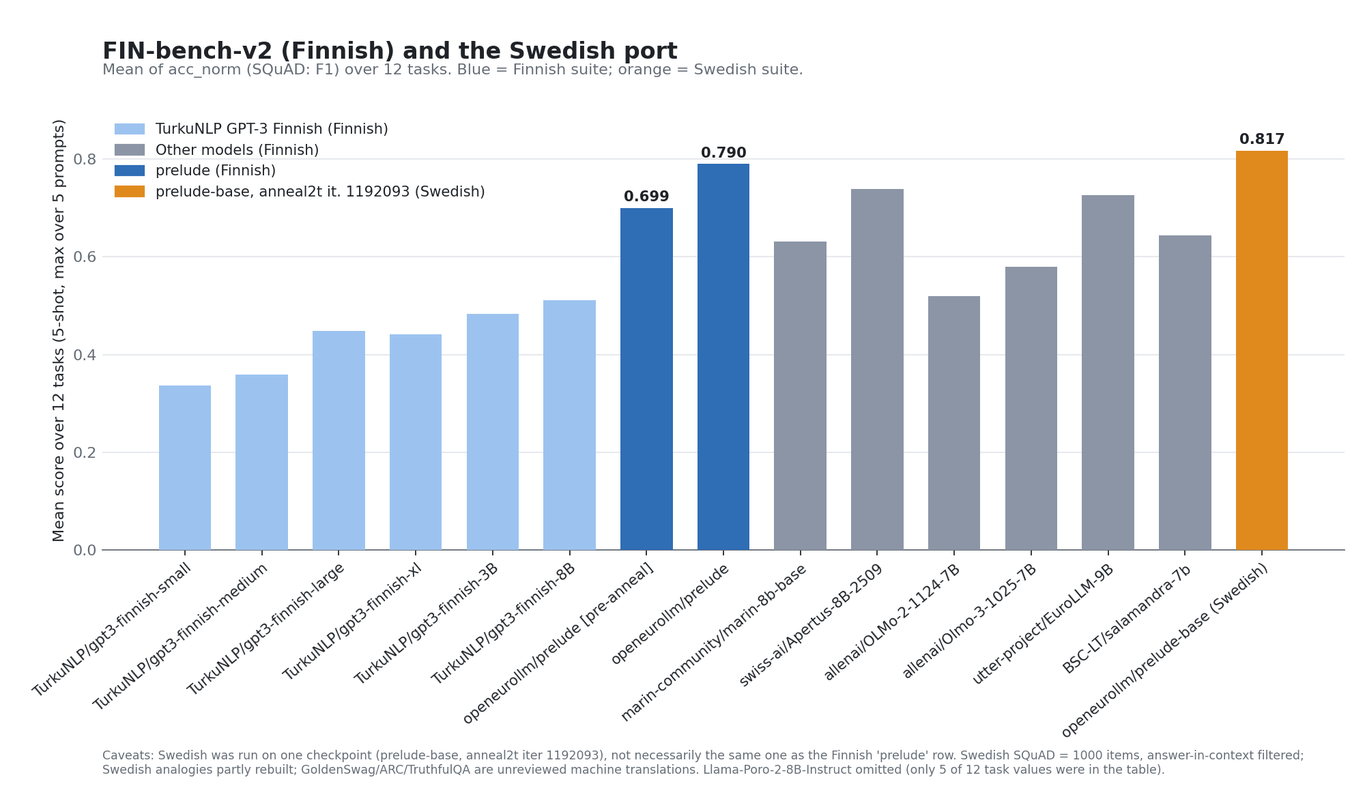
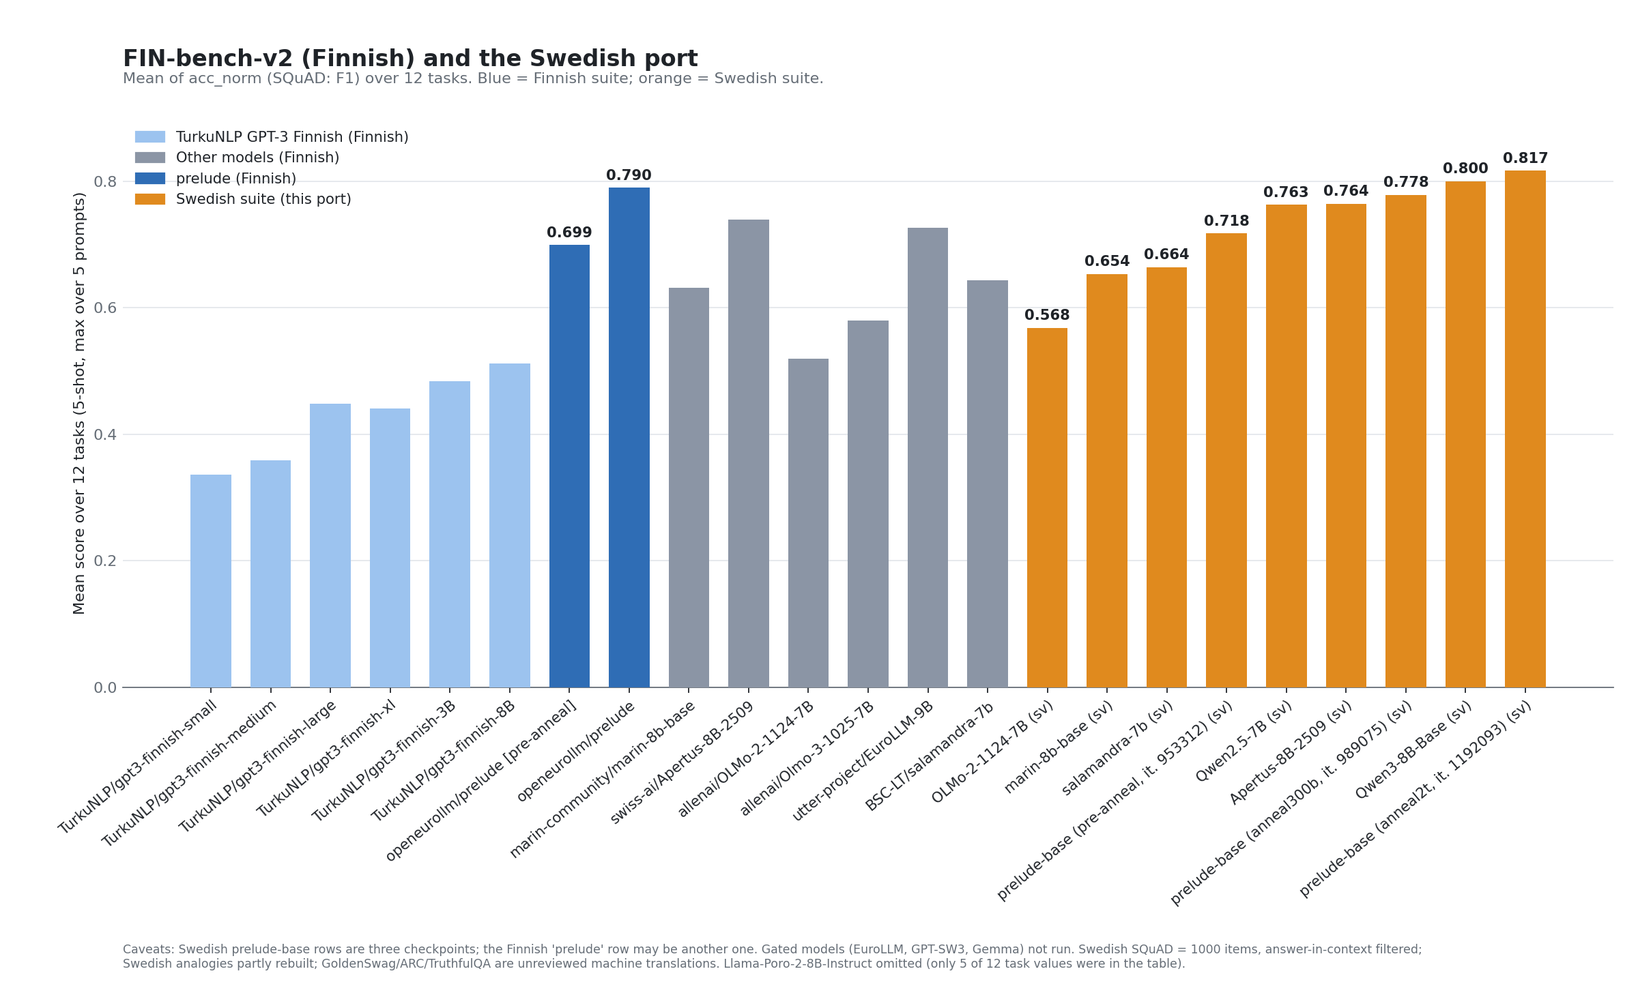
Add results for 8 more models/checkpoints, leaderboard and updated charts

diff --git a/docs/index.html b/docs/index.html
@@ -1,7 +1,7 @@
 <!doctype html>
 <html lang="en"><head><meta charset="utf-8"><meta name="viewport" content="width=device-width,initial-scale=1">
 <title>SV-bench-v2: Swedish FIN-bench-v2 port</title>
-<meta name="description" content="A draft Swedish port of FIN-bench-v2 with first baseline results.">
+<meta name="description" content="A draft Swedish port of FIN-bench-v2 with baseline results for several models.">
 <style>
 :root{--bg:#fff;--ink:#1f2328;--muted:#656d76;--line:#e4e7eb;--card:#f6f8fa;--accent:#2f6db5;--warn:#9a6700}
 @media (prefers-color-scheme:dark){:root{--bg:#0d1117;--ink:#e6edf3;--muted:#8b949e;--line:#30363d;--card:#161b22;--accent:#58a6ff;--warn:#d29922}}
@@ -19,7 +19,8 @@ code,pre{background:var(--card);border:1px solid var(--line);border-radius:6px}c
 <p class="lede">A Swedish port of <a href="https://arxiv.org/abs/2512.13330">FIN-bench-v2</a> (Kytöniemi et al., TurkuNLP): 12 tasks, five hand-written prompt variants each, run with the LM Evaluation Harness.
 Unofficial community port, not affiliated with TurkuNLP.</p>
 <div class="hero">
-<div class="stat"><b>0.817</b><span>prelude-base (Swedish), mean over 12 tasks</span></div>
+<div class="stat"><b>0.817</b><span>prelude-base anneal2t (Swedish), mean over 12 tasks</span></div>
+<div class="stat"><b>9</b><span>models evaluated</span></div>
 <div class="stat"><b>0.790</b><span>prelude (Finnish suite), same aggregation</span></div>
 <div class="stat"><b>12</b><span>tasks, 5-shot, 5 prompts each</span></div>
 </div>
@@ -27,19 +28,23 @@ Unofficial community port, not affiliated with TurkuNLP.</p>
 
 <h2>Finnish chart with the Swedish result</h2>
 <p>Bars are the mean of the 12 per-task scores (acc_norm, F1 for SQuAD; max over the five prompts per task, as in the Finnish table). Finnish numbers are from the FIN-bench-v2 authors' table.</p>
-<img src="chart_finnish_vs_swedish.png" alt="Bar chart of mean score over 12 tasks for Finnish models plus the Swedish prelude-base bar">
+<img src="chart_finnish_vs_swedish.png" alt="Bar chart of mean score over 12 tasks for Finnish models plus Swedish bars for the evaluated models">
 
 <h2>Per task: Finnish vs Swedish prelude</h2>
-<img src="chart_prelude_per_task.png" alt="Grouped bars comparing Finnish prelude and Swedish prelude-base per task">
+<img src="chart_prelude_per_task.png" alt="Grouped bars comparing Finnish prelude and Swedish prelude-base (anneal2t) per task">
 <p class="note">Not a like-for-like comparison per task: different datasets, possibly different checkpoints, Swedish analogies were partly rebuilt (Finnish case-ending items have no Swedish equivalent), Swedish SQuAD is filtered to answers found in the context, and GoldenSwag, ARC and TruthfulQA are unreviewed machine translations.</p>
 
-<h2>Swedish results</h2>
+<h2>Leaderboard</h2>
+<p>Max over the five prompts per task, 5-shot; Mean is over the 12 tasks. Gated models (EuroLLM, GPT-SW3, Gemma) were not run.</p>
+<div class="tw"><table><thead><tr><th>Model</th><th class=n>Mean</th><th class=n>ARC-Challenge</th><th class=n>Belebele</th><th class=n>Analogies</th><th class=n>Emotions</th><th class=n>Gen. knowl.</th><th class=n>HHH</th><th class=n>Similarities</th><th class=n>GoldenSwag</th><th class=n>TruthfulQA MC1</th><th class=n>ScandiSent</th><th class=n>SIB-200</th><th class=n>SQuAD</th></tr></thead><tbody><tr><td>openeurollm/prelude-base @ anneal2t_multilingual1_dominant1_iter_1192093</td><td class=n><b>0.817</b></td><td class=n>0.85</td><td class=n>0.88</td><td class=n>0.95</td><td class=n>0.80</td><td class=n>0.89</td><td class=n>0.80</td><td class=n>0.93</td><td class=n>0.72</td><td class=n>0.37</td><td class=n>0.98</td><td class=n>0.86</td><td class=n>0.78</td></tr><tr><td>Qwen/Qwen3-8B-Base</td><td class=n><b>0.800</b></td><td class=n>0.86</td><td class=n>0.89</td><td class=n>0.97</td><td class=n>0.73</td><td class=n>0.87</td><td class=n>0.81</td><td class=n>0.83</td><td class=n>0.55</td><td class=n>0.40</td><td class=n>0.98</td><td class=n>0.89</td><td class=n>0.81</td></tr><tr><td>openeurollm/prelude-base @ anneal300b iter_0989075</td><td class=n><b>0.778</b></td><td class=n>0.77</td><td class=n>0.83</td><td class=n>0.89</td><td class=n>0.76</td><td class=n>0.86</td><td class=n>0.74</td><td class=n>0.83</td><td class=n>0.71</td><td class=n>0.36</td><td class=n>0.98</td><td class=n>0.84</td><td class=n>0.76</td></tr><tr><td>swiss-ai/Apertus-8B-2509</td><td class=n><b>0.764</b></td><td class=n>0.74</td><td class=n>0.81</td><td class=n>0.85</td><td class=n>0.74</td><td class=n>0.86</td><td class=n>0.72</td><td class=n>0.79</td><td class=n>0.71</td><td class=n>0.40</td><td class=n>0.98</td><td class=n>0.80</td><td class=n>0.78</td></tr><tr><td>Qwen/Qwen2.5-7B</td><td class=n><b>0.763</b></td><td class=n>0.78</td><td class=n>0.85</td><td class=n>0.87</td><td class=n>0.67</td><td class=n>0.84</td><td class=n>0.79</td><td class=n>0.86</td><td class=n>0.47</td><td class=n>0.41</td><td class=n>0.97</td><td class=n>0.85</td><td class=n>0.80</td></tr><tr><td>openeurollm/prelude-base @ pre-anneal iter_0953312</td><td class=n><b>0.718</b></td><td class=n>0.67</td><td class=n>0.75</td><td class=n>0.77</td><td class=n>0.71</td><td class=n>0.81</td><td class=n>0.66</td><td class=n>0.75</td><td class=n>0.64</td><td class=n>0.35</td><td class=n>0.98</td><td class=n>0.77</td><td class=n>0.74</td></tr><tr><td>BSC-LT/salamandra-7b</td><td class=n><b>0.664</b></td><td class=n>0.58</td><td class=n>0.49</td><td class=n>0.75</td><td class=n>0.67</td><td class=n>0.83</td><td class=n>0.64</td><td class=n>0.78</td><td class=n>0.63</td><td class=n>0.33</td><td class=n>0.98</td><td class=n>0.76</td><td class=n>0.52</td></tr><tr><td>marin-community/marin-8b-base</td><td class=n><b>0.654</b></td><td class=n>0.54</td><td class=n>0.79</td><td class=n>0.68</td><td class=n>0.52</td><td class=n>0.69</td><td class=n>0.64</td><td class=n>0.64</td><td class=n>0.45</td><td class=n>0.36</td><td class=n>0.98</td><td class=n>0.76</td><td class=n>0.78</td></tr><tr><td>allenai/OLMo-2-1124-7B</td><td class=n><b>0.568</b></td><td class=n>0.37</td><td class=n>0.64</td><td class=n>0.61</td><td class=n>0.44</td><td class=n>0.59</td><td class=n>0.60</td><td class=n>0.58</td><td class=n>0.34</td><td class=n>0.30</td><td class=n>0.97</td><td class=n>0.67</td><td class=n>0.71</td></tr></tbody></table></div>
+
+<h2>Per-prompt detail: prelude-base (anneal2t)</h2>
 <p>Model: <code>openeurollm/prelude-base @ anneal2t_multilingual1_dominant1_iter_1192093</code>. 5-shot. <b>Max</b> is the reported score (max over prompts); the last numeric column lists the five prompt variants p0&ndash;p4.</p>
 <div class="tw"><table><thead><tr><th>Task</th><th class=n>Max</th><th class=n>Mean</th><th class=n>p0 p1 p2 p3 p4</th><th>Source</th><th>Caveat</th></tr></thead><tbody>
 <tr><td>ARC-Challenge</td><td class=n><b>0.846</b></td><td class=n>0.812</td><td class='n pp'>0.83 0.71 0.84 0.85 0.83</td><td>occiglot/arcX (sv)</td><td class=cav>machine-translated, unreviewed</td></tr><tr><td>Belebele</td><td class=n><b>0.879</b></td><td class=n>0.860</td><td class='n pp'>0.88 0.88 0.87 0.87 0.80</td><td>facebook/belebele swe_Latn</td><td class=cav>human translation</td></tr><tr><td>Analogies</td><td class=n><b>0.946</b></td><td class=n>0.909</td><td class='n pp'>0.91 0.84 0.92 0.95 0.93</td><td>FIN-bench v1, translated from Finnish</td><td class=cav>idx 40-129 rebuilt for Swedish; not comparable</td></tr><tr><td>Emotions 1k</td><td class=n><b>0.797</b></td><td class=n>0.760</td><td class='n pp'>0.73 0.79 0.77 0.80 0.71</td><td>FIN-bench v1 (XED), translated from Finnish</td><td class=cav>LLM translation, unreviewed</td></tr><tr><td>General knowledge</td><td class=n><b>0.886</b></td><td class=n>0.874</td><td class='n pp'>0.87 0.87 0.89 0.87 0.87</td><td>FIN-bench v1, translated from Finnish</td><td class=cav>a few Finland-specific facts</td></tr><tr><td>HHH alignment</td><td class=n><b>0.801</b></td><td class=n>0.771</td><td class='n pp'>0.75 0.80 0.77 0.78 0.75</td><td>FIN-bench v1, translated from Finnish</td><td class=cav>some items adapted</td></tr><tr><td>Similarities abstraction</td><td class=n><b>0.934</b></td><td class=n>0.924</td><td class='n pp'>0.93 0.91 0.93 0.91 0.93</td><td>FIN-bench v1, translated from Finnish</td><td class=cav>two distractors adapted</td></tr><tr><td>GoldenSwag</td><td class=n><b>0.718</b></td><td class=n>0.717</td><td class='n pp'>0.71 0.72 0.72 0.72 0.72</td><td>LumiOpen/opengpt-x_goldenswagx (SV)</td><td class=cav>machine-translated, unreviewed</td></tr><tr><td>TruthfulQA MC1</td><td class=n><b>0.373</b></td><td class=n>0.363</td><td class='n pp'>0.36 0.36 0.36 0.37 0.35</td><td>LumiOpen/opengpt-x_truthfulqax (mc_SV)</td><td class=cav>machine-translated</td></tr><tr><td>ScandiSent</td><td class=n><b>0.980</b></td><td class=n>0.977</td><td class='n pp'>0.98 0.98 0.97 0.98 0.97</td><td>ScandiSent sv, 2048-item test subset</td><td class=cav>native Swedish reviews</td></tr><tr><td>SIB-200</td><td class=n><b>0.858</b></td><td class=n>0.782</td><td class='n pp'>0.80 0.63 0.86 0.84 0.79</td><td>Davlan/sib200 swe_Latn</td><td class=cav>human translation</td></tr><tr><td>SQuAD (F1)</td><td class=n><b>0.781</b></td><td class=n>0.772</td><td class='n pp'>0.77 0.77 0.77 0.78 0.77</td><td>SQuAD v2 Swedish (Google Translate)</td><td class=cav>1000 items, answer-in-context filtered</td></tr>
 <tr><td><b>Mean over tasks</b></td><td class=n><b>0.817</b></td><td></td><td></td><td></td><td></td></tr>
 </tbody></table></div>
-<p>Prompt choice matters: SIB-200 ranges 0.63&ndash;0.86 and ARC 0.71&ndash;0.85 across prompt variants, which taking the max hides.</p>
+<p>Prompt choice matters (prelude-base anneal2t): SIB-200 ranges 0.63&ndash;0.86 and ARC 0.71&ndash;0.85 across prompt variants, which taking the max hides.</p>
 
 <h2>Run it</h2>
 <pre><code>git clone https://github.com/BirgerMoell/svbench-v2 &amp;&amp; cd svbench-v2
@@ -52,7 +57,7 @@ python aggregate.py results/*/results.json</code></pre>
 
 <h2>Known limitations</h2>
 <ul>
-<li>Only one model has been evaluated so far.</li>
+<li>9 open base models and checkpoints evaluated, single run each; differences of a point or two are within noise. Gated models were not run.</li>
 <li>All 35 Swedish prompts and the translations of the five FIN-bench v1 tasks were written by an LLM (Claude), translated from the Finnish data, and need native-speaker review.</li>
 <li>Analogies items 40&ndash;129 test Finnish morphology; they were rebuilt with Swedish forms, so that task is a new Swedish task, not a translation.</li>
 <li>Translators' notes are in <code>translation/out/</code>.</li>

diff --git a/build_site.py b/build_site.py
@@ -20,7 +20,31 @@ TASKS = [  # (label, key, metric, source, caveat)
     ("SIB-200", "sib200_sv_mcf_svbv2", "acc_norm", "Davlan/sib200 swe_Latn", "human translation"),
     ("SQuAD (F1)", "squad_sv_gen_svbv2", "f1", "SQuAD v2 Swedish (Google Translate)", "1000 items, answer-in-context filtered"),
 ]
-res = json.load(open(next((ROOT / "results").glob("*/results.json"))))["results"]
+MODELS = {  # dir -> display name
+    "prelude-base-anneal2t-it1192093": "openeurollm/prelude-base @ anneal2t_multilingual1_dominant1_iter_1192093",
+    "prelude-base-anneal300b-it0989075": "openeurollm/prelude-base @ anneal300b iter_0989075",
+    "prelude-base-pre-anneal-it0953312": "openeurollm/prelude-base @ pre-anneal iter_0953312",
+    "qwen3-8b-base": "Qwen/Qwen3-8B-Base", "apertus-8b-2509": "swiss-ai/Apertus-8B-2509", "qwen2.5-7b": "Qwen/Qwen2.5-7B",
+    "salamandra-7b": "BSC-LT/salamandra-7b", "marin-8b-base": "marin-community/marin-8b-base",
+    "olmo-3-1025-7b": "allenai/Olmo-3-1025-7B", "olmo-2-1124-7b": "allenai/OLMo-2-1124-7B",
+}
+ALL = {}
+for d, name in MODELS.items():
+    p = ROOT / "results" / d / "results.json"
+    if p.exists():
+        r = json.load(open(p))["results"]
+        try:
+            ALL[name] = {k: [r[f"{k}_p{i}"]["f1,none" if met == "f1" else "acc_norm,none"] for i in range(5)] for _, k, met, _, _ in TASKS}
+        except KeyError:
+            pass
+res = json.load(open(ROOT / "results" / "prelude-base-anneal2t-it1192093" / "results.json"))["results"]
+board = sorted(ALL.items(), key=lambda kv: -sum(max(v) for v in kv[1].values()) / 12)
+head = "".join(f"<th class=n>{html.escape(l.split()[0] if len(l) < 14 else l.replace('Similarities abstraction','Similarities').replace('General knowledge','Gen. knowl.'))}</th>" for l, *_ in TASKS)
+brow = ""
+for name, sc in board:
+    mx = [max(sc[k]) for _, k, *_ in TASKS]
+    brow += f"<tr><td>{html.escape(name)}</td><td class=n><b>{sum(mx)/12:.3f}</b></td>" + "".join(f"<td class=n>{x:.2f}</td>" for x in mx) + "</tr>"
+LEADER = f'<div class="tw"><table><thead><tr><th>Model</th><th class=n>Mean</th>{head}</tr></thead><tbody>{brow}</tbody></table></div>'
 
 rows, maxes = [], []
 for label, key, metric, src, cav in TASKS:
@@ -36,7 +60,7 @@ mean = sum(maxes) / len(maxes)
 page = f"""<!doctype html>
 <html lang="en"><head><meta charset="utf-8"><meta name="viewport" content="width=device-width,initial-scale=1">
 <title>SV-bench-v2: Swedish FIN-bench-v2 port</title>
-<meta name="description" content="A draft Swedish port of FIN-bench-v2 with first baseline results.">
+<meta name="description" content="A draft Swedish port of FIN-bench-v2 with baseline results for several models.">
 <style>
 :root{{--bg:#fff;--ink:#1f2328;--muted:#656d76;--line:#e4e7eb;--card:#f6f8fa;--accent:#2f6db5;--warn:#9a6700}}
 @media (prefers-color-scheme:dark){{:root{{--bg:#0d1117;--ink:#e6edf3;--muted:#8b949e;--line:#30363d;--card:#161b22;--accent:#58a6ff;--warn:#d29922}}}}
@@ -54,7 +78,8 @@ code,pre{{background:var(--card);border:1px solid var(--line);border-radius:6px}
 <p class="lede">A Swedish port of <a href="https://arxiv.org/abs/2512.13330">FIN-bench-v2</a> (Kytöniemi et al., TurkuNLP): 12 tasks, five hand-written prompt variants each, run with the LM Evaluation Harness.
 Unofficial community port, not affiliated with TurkuNLP.</p>
 <div class="hero">
-<div class="stat"><b>{mean:.3f}</b><span>prelude-base (Swedish), mean over 12 tasks</span></div>
+<div class="stat"><b>{mean:.3f}</b><span>prelude-base anneal2t (Swedish), mean over 12 tasks</span></div>
+<div class="stat"><b>{len(ALL)}</b><span>models evaluated</span></div>
 <div class="stat"><b>0.790</b><span>prelude (Finnish suite), same aggregation</span></div>
 <div class="stat"><b>12</b><span>tasks, 5-shot, 5 prompts each</span></div>
 </div>
@@ -62,19 +87,23 @@ Unofficial community port, not affiliated with TurkuNLP.</p>
 
 <h2>Finnish chart with the Swedish result</h2>
 <p>Bars are the mean of the 12 per-task scores (acc_norm, F1 for SQuAD; max over the five prompts per task, as in the Finnish table). Finnish numbers are from the FIN-bench-v2 authors' table.</p>
-<img src="chart_finnish_vs_swedish.png" alt="Bar chart of mean score over 12 tasks for Finnish models plus the Swedish prelude-base bar">
+<img src="chart_finnish_vs_swedish.png" alt="Bar chart of mean score over 12 tasks for Finnish models plus Swedish bars for the evaluated models">
 
 <h2>Per task: Finnish vs Swedish prelude</h2>
-<img src="chart_prelude_per_task.png" alt="Grouped bars comparing Finnish prelude and Swedish prelude-base per task">
+<img src="chart_prelude_per_task.png" alt="Grouped bars comparing Finnish prelude and Swedish prelude-base (anneal2t) per task">
 <p class="note">Not a like-for-like comparison per task: different datasets, possibly different checkpoints, Swedish analogies were partly rebuilt (Finnish case-ending items have no Swedish equivalent), Swedish SQuAD is filtered to answers found in the context, and GoldenSwag, ARC and TruthfulQA are unreviewed machine translations.</p>
 
-<h2>Swedish results</h2>
+<h2>Leaderboard</h2>
+<p>Max over the five prompts per task, 5-shot; Mean is over the 12 tasks. Gated models (EuroLLM, GPT-SW3, Gemma) were not run.</p>
+{LEADER}
+
+<h2>Per-prompt detail: prelude-base (anneal2t)</h2>
 <p>Model: <code>{html.escape(MODEL)}</code>. 5-shot. <b>Max</b> is the reported score (max over prompts); the last numeric column lists the five prompt variants p0&ndash;p4.</p>
 <div class="tw"><table><thead><tr><th>Task</th><th class=n>Max</th><th class=n>Mean</th><th class=n>p0 p1 p2 p3 p4</th><th>Source</th><th>Caveat</th></tr></thead><tbody>
 {''.join(rows)}
 <tr><td><b>Mean over tasks</b></td><td class=n><b>{mean:.3f}</b></td><td></td><td></td><td></td><td></td></tr>
 </tbody></table></div>
-<p>Prompt choice matters: SIB-200 ranges 0.63&ndash;0.86 and ARC 0.71&ndash;0.85 across prompt variants, which taking the max hides.</p>
+<p>Prompt choice matters (prelude-base anneal2t): SIB-200 ranges 0.63&ndash;0.86 and ARC 0.71&ndash;0.85 across prompt variants, which taking the max hides.</p>
 
 <h2>Run it</h2>
 <pre><code>git clone https://github.com/BirgerMoell/svbench-v2 &amp;&amp; cd svbench-v2
@@ -87,7 +116,7 @@ python aggregate.py results/*/results.json</code></pre>
 
 <h2>Known limitations</h2>
 <ul>
-<li>Only one model has been evaluated so far.</li>
+<li>{len(ALL)} open base models and checkpoints evaluated, single run each; differences of a point or two are within noise. Gated models were not run.</li>
 <li>All 35 Swedish prompts and the translations of the five FIN-bench v1 tasks were written by an LLM (Claude), translated from the Finnish data, and need native-speaker review.</li>
 <li>Analogies items 40&ndash;129 test Finnish morphology; they were rebuilt with Swedish forms, so that task is a new Swedish task, not a translation.</li>
 <li>Translators' notes are in <code>translation/out/</code>.</li>

diff --git a/make_chart.py b/make_chart.py
@@ -2,7 +2,7 @@
 """Recreate the FIN-bench-v2 Finnish chart (mean over 12 tasks per model) and add the Swedish prelude-base result.
 
 Finnish numbers are Sampo Pyysalo's table (acc_norm 5-shot, f1 for SQuAD, max over 5 prompts per task).
-Swedish numbers come from results/prelude-base-anneal2t-it1192093/results.json (same aggregation).
+Swedish numbers come from results/<model>/results.json (same aggregation).
 Llama-Poro-2-8B-Instruct is omitted: its row in the pasted table has only 5 of 12 values.
 """
 import json
@@ -34,16 +34,30 @@ FI = {
     "BSC-LT/salamandra-7b": [0.5636, 0.5033, 0.7923, 0.71, 0.7571, 0.638, 0.7895, 0.59, 0.3378, 0.96, 0.748, 0.3317],
 }
 # Swedish: max over p0-p4 per task, same order as TASKS
-res = json.load(open(ROOT / "results/prelude-base-anneal2t-it1192093/results.json"))["results"]
 SV_KEYS = ["arc_challenge_sv_mcf_svbv2", "belebele_swe_Latn_mcf_svbv2", "finbench_analogies_sv_mcf_svbv2",
            "finbench_emotions_1k_sv_mcf_svbv2", "finbench_general_knowledge_sv_mcf_svbv2",
            "finbench_hhh_alignment_sv_mcf_svbv2", "finbench_similarities_abstraction_sv_mcf_svbv2",
            "goldenswag_mt_sv_cf_svbv2", "ogx_truthfulqax_mc1_sv_svbv2", "scandisent_sv_mcf_svbv2",
            "sib200_sv_mcf_svbv2", "squad_sv_gen_svbv2"]
-SV = []
-for k in SV_KEYS:
-    m = "f1,none" if k.startswith("squad") else "acc_norm,none"
-    SV.append(max(res[f"{k}_p{i}"][m] for i in range(5)))
+def sv_scores(path):
+    res = json.load(open(path))["results"]
+    return [max(res[f"{k}_p{i}"]["f1,none" if k.startswith("squad") else "acc_norm,none"] for i in range(5)) for k in SV_KEYS]
+SV_DIR = ROOT / "results"
+SV_LABELS = {  # dir -> display name
+    "prelude-base-anneal2t-it1192093": "openeurollm/prelude-base (anneal2t, it. 1192093)",
+    "prelude-base-anneal300b-it0989075": "prelude-base (anneal300b, it. 989075)",
+    "prelude-base-pre-anneal-it0953312": "prelude-base (pre-anneal, it. 953312)",
+    "apertus-8b-2509": "swiss-ai/Apertus-8B-2509", "olmo-3-1025-7b": "allenai/Olmo-3-1025-7B",
+    "olmo-2-1124-7b": "allenai/OLMo-2-1124-7B", "salamandra-7b": "BSC-LT/salamandra-7b",
+    "marin-8b-base": "marin-community/marin-8b-base", "qwen3-8b-base": "Qwen/Qwen3-8B-Base", "qwen2.5-7b": "Qwen/Qwen2.5-7B",
+}
+SVM = {}
+for d, name in SV_LABELS.items():
+    p = SV_DIR / d / "results.json"
+    if p.exists():
+        try: SVM[name] = sv_scores(p)
+        except KeyError: print("incomplete, skipped:", d)
+SV = SVM[SV_LABELS["prelude-base-anneal2t-it1192093"]]
 
 INK, MUTED, GRID, BG = "#1f2328", "#656d76", "#e4e7eb", "#ffffff"
 C_TURKU, C_OTHER, C_FI_PRELUDE, C_SV = "#9cc3ef", "#8b95a5", "#2f6db5", "#e08a1e"
@@ -51,26 +65,27 @@ plt.rcParams.update({"font.family": "sans-serif", "axes.edgecolor": MUTED, "text
                      "axes.labelcolor": INK, "xtick.color": INK, "ytick.color": MUTED})
 
 # ---------------------------------------------------------------- chart 1: mean over tasks per model
-names = list(FI) + ["openeurollm/prelude-base (Swedish)"]
-vals = [float(np.mean(v)) for v in FI.values()] + [float(np.mean(SV))]
+sv_sorted = sorted(SVM.items(), key=lambda kv: np.mean(kv[1]))
+names = list(FI) + [n.split("/")[-1] + " (sv)" for n, _ in sv_sorted]
+vals = [float(np.mean(v)) for v in FI.values()] + [float(np.mean(v)) for _, v in sv_sorted]
 cols = []
 for n in names:
     if n.startswith("TurkuNLP"):
         cols.append(C_TURKU)
-    elif n.startswith("openeurollm/prelude-base"):
+    elif n.endswith("(sv)"):
         cols.append(C_SV)
     elif n.startswith("openeurollm/prelude"):
         cols.append(C_FI_PRELUDE)
     else:
         cols.append(C_OTHER)
 
-fig, ax = plt.subplots(figsize=(12.5, 7.2), dpi=160)
+fig, ax = plt.subplots(figsize=(15, 9), dpi=160)
 fig.patch.set_facecolor(BG)
 ax.set_facecolor(BG)
 x = np.arange(len(names))
 bars = ax.bar(x, vals, width=0.68, color=cols, zorder=3)
 for b, n in zip(bars, names):
-    if "prelude" in n:
+    if "prelude" in n or n.endswith("(sv)"):
         ax.text(b.get_x() + b.get_width() / 2, b.get_height() + 0.008, f"{b.get_height():.3f}",
                 ha="center", va="bottom", fontsize=9.5, color=INK, fontweight="bold")
 ax.set_ylim(0, 0.9)
@@ -84,20 +99,20 @@ ax.set_xticks(x)
 ax.set_xticklabels(names, rotation=40, ha="right", rotation_mode="anchor", fontsize=9.5)
 ax.set_ylabel("Mean score over 12 tasks (5-shot, max over 5 prompts)")
 ax.set_title("FIN-bench-v2 (Finnish) and the Swedish port", loc="left", fontsize=15, fontweight="bold", pad=34)
-fig.text(0.075, 0.905, "Mean of acc_norm (SQuAD: F1) over 12 tasks. Blue = Finnish suite; orange = Swedish suite.",
+fig.text(0.075, 0.915, "Mean of acc_norm (SQuAD: F1) over 12 tasks. Blue = Finnish suite; orange = Swedish suite.",
          fontsize=10, color=MUTED)
 from matplotlib.patches import Patch
 ax.legend(handles=[Patch(color=C_TURKU, label="TurkuNLP GPT-3 Finnish (Finnish)"),
                    Patch(color=C_OTHER, label="Other models (Finnish)"),
                    Patch(color=C_FI_PRELUDE, label="prelude (Finnish)"),
-                   Patch(color=C_SV, label="prelude-base, anneal2t it. 1192093 (Swedish)")],
+                   Patch(color=C_SV, label="Swedish suite (this port)")],
           loc="upper left", frameon=False, fontsize=9.5)
 fig.text(0.075, 0.012,
-         "Caveats: Swedish was run on one checkpoint (prelude-base, anneal2t iter 1192093), not necessarily the same one as the Finnish 'prelude' row. "
+         "Caveats: Swedish prelude-base rows are three checkpoints; the Finnish 'prelude' row may be another one. Gated models (EuroLLM, GPT-SW3, Gemma) not run. "
          "Swedish SQuAD = 1000 items, answer-in-context filtered;\nSwedish analogies partly rebuilt; GoldenSwag/ARC/TruthfulQA are unreviewed machine translations. "
          "Llama-Poro-2-8B-Instruct omitted (only 5 of 12 task values were in the table).",
          fontsize=7.8, color=MUTED, va="bottom")
-fig.subplots_adjust(left=0.075, right=0.985, top=0.86, bottom=0.30)
+fig.subplots_adjust(left=0.075, right=0.985, top=0.88, bottom=0.30)
 fig.savefig(ROOT / "docs/chart_finnish_vs_swedish.png", facecolor=BG)
 plt.close(fig)
 

diff --git a/README.md b/README.md
@@ -9,7 +9,25 @@ Same design: lm-evaluation-harness tasks, five hand-written prompt variants (p0-
 (`aggregate.py` does this).
 
 Status: all 12 tasks have configs and data, and load and run end to end with lm-eval 0.4.9.1 using the `dummy` model
-(prompts rendered and checked by eye). **No real model has been evaluated yet.**
+(prompts rendered and checked by eye). Nine base models/checkpoints have been evaluated (results below and on the [results page](https://birgermoell.github.io/svbench-v2/)).
+
+## Results (mean over 12 tasks, max over 5 prompts, 5-shot)
+
+| Model | Mean |
+|---|---|
+| openeurollm/prelude-base, anneal2t_multilingual1_dominant1_iter_1192093 | 0.817 |
+| Qwen/Qwen3-8B-Base | 0.800 |
+| openeurollm/prelude-base, anneal300b iter_0989075 | 0.778 |
+| swiss-ai/Apertus-8B-2509 | 0.764 |
+| Qwen/Qwen2.5-7B | 0.763 |
+| openeurollm/prelude-base, pre-anneal iter_0953312 | 0.718 |
+| BSC-LT/salamandra-7b | 0.664 |
+| marin-community/marin-8b-base | 0.654 |
+| allenai/OLMo-2-1124-7B | 0.568 |
+
+Raw per-prompt results are in `results/<model>/results.json`; `swedish_results.tsv` has the per-task table.
+Single runs, SQuAD on 1000 items, unreviewed prompts and translations: gaps of a point or two are not meaningful.
+Gated models (EuroLLM, GPT-SW3, Gemma) were not run. OLMo-3-7B is pending (its first run hit a GPU out-of-memory error).
 
 ## Task coverage
 
@@ -87,7 +105,7 @@ translators are in `translation/out/notes_analogies.txt` and `translation/out/no
    (especially analogies idx 40-129 and the items listed in the notes files).
 2. Consider re-translating general knowledge, HHH and similarities from the English BIG-bench originals
    (`tasksource/bigbench`), which exist for those three tasks and have matching item counts.
-3. Run the same base models as the Finnish chart, plus Swedish ones (GPT-SW3 and similar if available).
+3. Run the gated models (EuroLLM-9B, GPT-SW3, Gemma) and finish OLMo-3-7B.
 
 ## Running on a Slurm cluster
 
